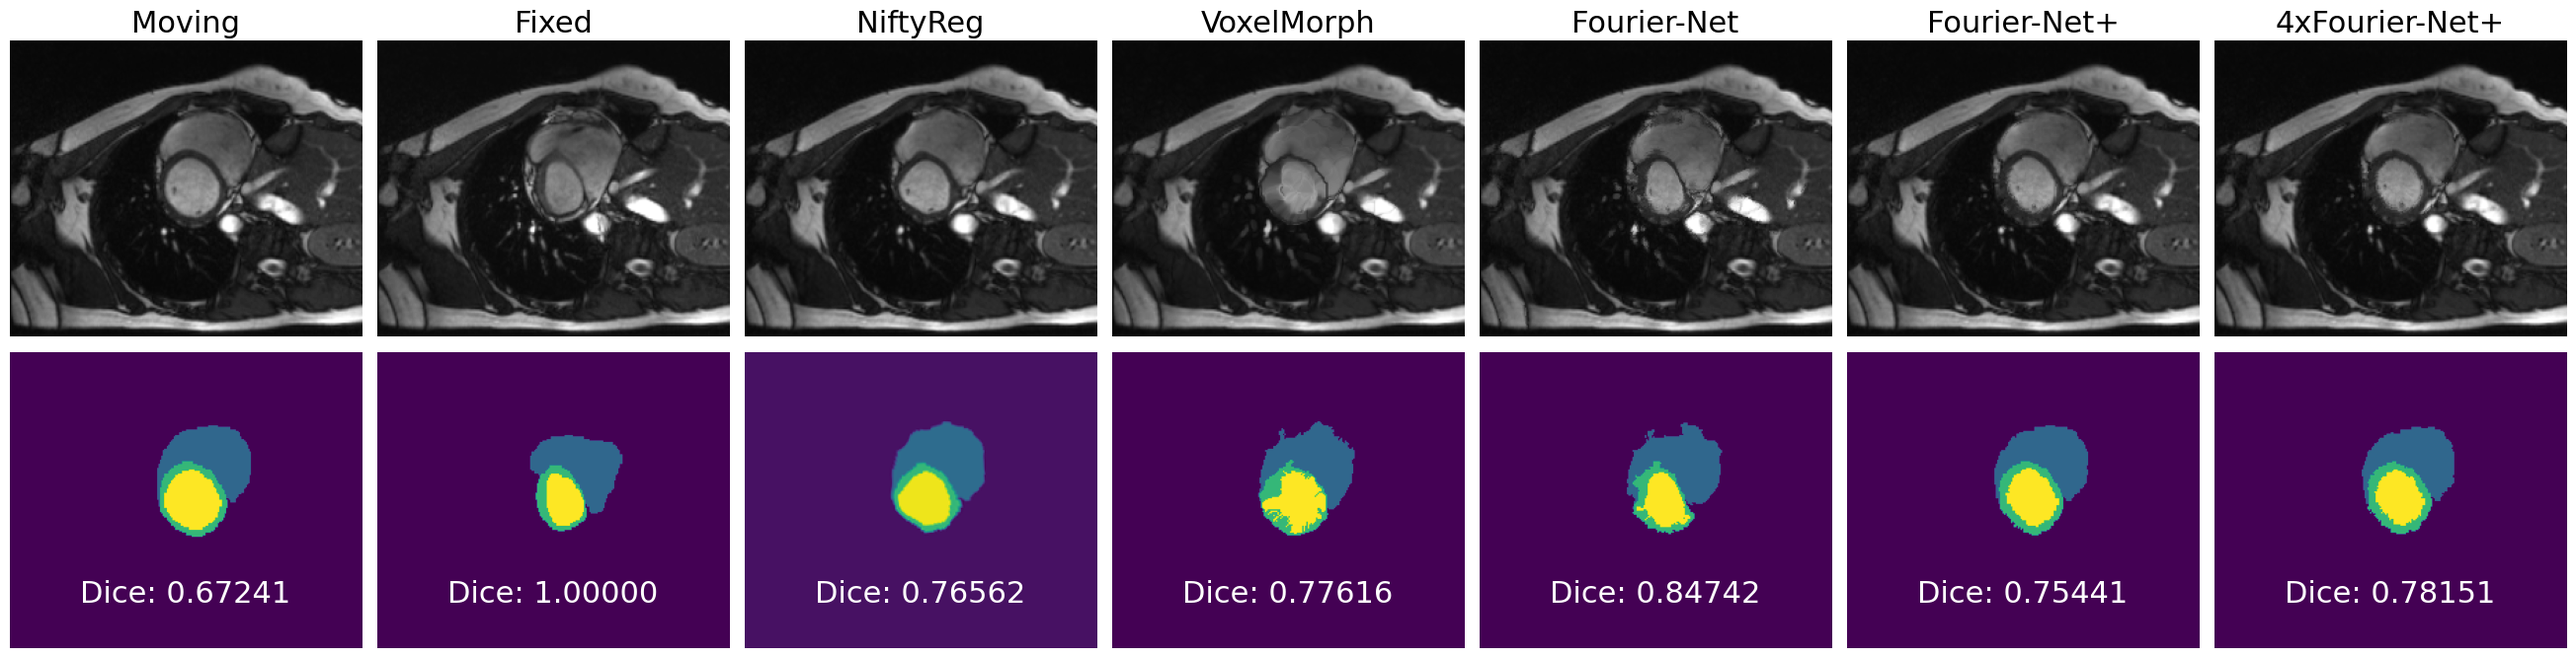
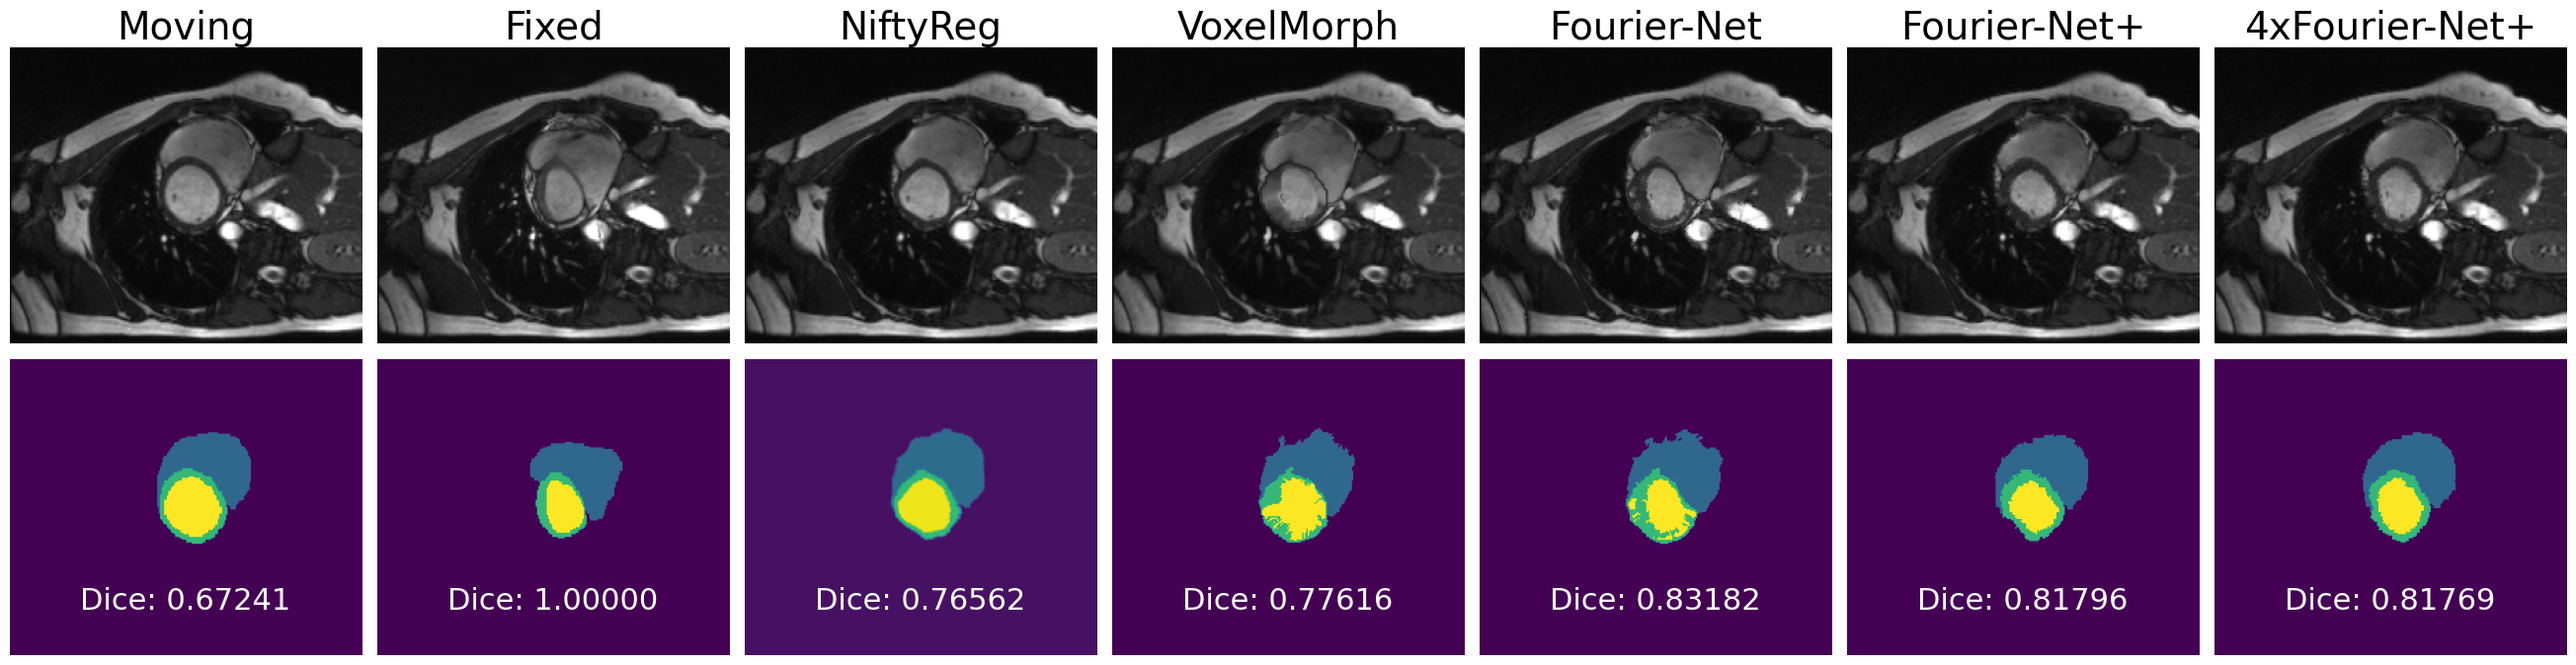
Removed domain sim arguments and changed font size of titles for the test examples.

diff --git a/2D_CMR_Registration/CalculateAllDiceScores.py b/2D_CMR_Registration/CalculateAllDiceScores.py
@@ -23,9 +23,6 @@ parser.add_argument("--FT_size_y", type=int,
 parser.add_argument("--diffeo", type=int,
                     dest="diffeo", default=0, 
                     help="choose whether to use a diffeomorphic transform (1) or not (0)")
-parser.add_argument("--domain_sim", type=int,
-                    dest="domain_sim", default=0,
-                    help="choose which domain the similarity loss should be applied: image space (0) or k-space (1)")
 parser.add_argument("--mode", type=int, dest="mode", default=0,
                     help="choose dataset mode: fully sampled (0), 4x accelerated (1), 8x accelerated (2) or 10x accelerated (3)")
 opt = parser.parse_args()
@@ -34,7 +31,6 @@ start_channel = opt.start_channel
 FT_size = [opt.FT_size_x,opt.FT_size_y]
 mode = opt.mode
 diffeo = opt.diffeo
-domain_sim = opt.domain_sim
 
 dataset = 'ACDC'
 # load ACDC test data
@@ -62,36 +58,36 @@ modelpath_voxelmorph = path_voxelmorph + natsorted(listdir(path_voxelmorph))[-1]
 model_voxelmorph.load_state_dict(torch.load(modelpath_voxelmorph))
 model_voxelmorph.eval()
 
-path_f_net      = './ModelParameters-{}/Model_{}_Diffeo_{}_Loss_{}_Chan_{}_FT_{}-{}_Smth_{}_LR_{}_Mode_{}_Sim_{}_Pth/'.format(dataset,0,0,1,start_channel,FT_size[0],FT_size[1],0.01,0.0001,mode,domain_sim)
+path_f_net      = './ModelParameters-{}/Model_{}_Diffeo_{}_Loss_{}_Chan_{}_FT_{}-{}_Smth_{}_LR_{}_Mode_{}_Pth/'.format(dataset,0,0,1,start_channel,FT_size[0],FT_size[1],0.01,0.0001,mode)
 #modelpath_f_net = path_f_net + natsorted(listdir(path_f_net))[-1]
 modelpath_f_net = [f.path for f in scandir(path_f_net) if f.is_file() and not (f.name.find('Epoch_0006') == -1)][0]
 model_f_net.load_state_dict(torch.load(modelpath_f_net))
 model_f_net.eval()
 
-path_f_net_plus      = './ModelParameters-{}/Model_{}_Diffeo_{}_Loss_{}_Chan_{}_FT_{}-{}_Smth_{}_LR_{}_Mode_{}_Sim_{}_Pth/'.format(dataset,1,0,1,start_channel,FT_size[0],FT_size[1],0.01,0.0001,mode,domain_sim)
+path_f_net_plus      = './ModelParameters-{}/Model_{}_Diffeo_{}_Loss_{}_Chan_{}_FT_{}-{}_Smth_{}_LR_{}_Mode_{}_Pth/'.format(dataset,1,0,1,start_channel,FT_size[0],FT_size[1],0.01,0.0001,mode)
 #modelpath_f_net_plus = path_f_net_plus + natsorted(listdir(path_f_net_plus))[-1]
 modelpath_f_net_plus = [f.path for f in scandir(path_f_net_plus) if f.is_file() and not (f.name.find('Epoch_0006') == -1)][0]
 model_f_net_plus.load_state_dict(torch.load(modelpath_f_net_plus))
 model_f_net_plus.eval()
 
-path_f_net_plus_cascade      = './ModelParameters-{}/Model_{}_Diffeo_{}_Loss_{}_Chan_{}_FT_{}-{}_Smth_{}_LR_{}_Mode_{}_Sim_{}_Pth/'.format(dataset,2,0,1,start_channel,FT_size[0],FT_size[1],0.01,0.0001,mode,domain_sim)
+path_f_net_plus_cascade      = './ModelParameters-{}/Model_{}_Diffeo_{}_Loss_{}_Chan_{}_FT_{}-{}_Smth_{}_LR_{}_Mode_{}_Pth/'.format(dataset,2,0,1,start_channel,FT_size[0],FT_size[1],0.01,0.0001,mode)
 #modelpath_f_net_plus_cascade = path_f_net_plus_cascade + natsorted(listdir(path_f_net_plus_cascade))[-1]
 modelpath_f_net_plus_cascade = [f.path for f in scandir(path_f_net_plus_cascade) if f.is_file() and not (f.name.find('Epoch_0004') == -1)][0]
 model_f_net_plus_cascade.load_state_dict(torch.load(modelpath_f_net_plus_cascade))
 model_f_net_plus_cascade.eval()
 
 if diffeo == 1:
-    path_f_net_diff      = './ModelParameters-{}/Model_{}_Diffeo_{}_Loss_{}_Chan_{}_FT_{}-{}_Smth_{}_LR_{}_Mode_{}_Sim_{}_Pth/'.format(dataset,0,1,1,start_channel,FT_size[0],FT_size[1],0.01,0.0001,mode,domain_sim)
+    path_f_net_diff      = './ModelParameters-{}/Model_{}_Diffeo_{}_Loss_{}_Chan_{}_FT_{}-{}_Smth_{}_LR_{}_Mode_{}_Pth/'.format(dataset,0,1,1,start_channel,FT_size[0],FT_size[1],0.01,0.0001,mode)
     modelpath_f_net_diff = path_f_net_diff + natsorted(listdir(path_f_net_diff))[-1]
     model_f_net_diff.load_state_dict(torch.load(modelpath_f_net_diff))
     model_f_net_diff.eval()
 
-    path_f_net_plus_diff      = './ModelParameters-{}/Model_{}_Diffeo_{}_Loss_{}_Chan_{}_FT_{}-{}_Smth_{}_LR_{}_Mode_{}_Sim_{}_Pth/'.format(dataset,1,1,1,start_channel,FT_size[0],FT_size[1],0.01,0.0001,mode,domain_sim)
+    path_f_net_plus_diff      = './ModelParameters-{}/Model_{}_Diffeo_{}_Loss_{}_Chan_{}_FT_{}-{}_Smth_{}_LR_{}_Mode_{}_Pth/'.format(dataset,1,1,1,start_channel,FT_size[0],FT_size[1],0.01,0.0001,mode)
     modelpath_f_net_plus_diff = path_f_net_plus_diff + natsorted(listdir(path_f_net_plus_diff))[-1]
     model_f_net_plus_diff.load_state_dict(torch.load(modelpath_f_net_plus_diff))
     model_f_net_plus_diff.eval()
 
-    path_f_net_plus_cascade_diff      = './ModelParameters-{}/Model_{}_Diffeo_{}_Loss_{}_Chan_{}_FT_{}-{}_Smth_{}_LR_{}_Mode_{}_Sim_{}_Pth/'.format(dataset,2,1,1,start_channel,FT_size[0],FT_size[1],0.01,0.0001,mode,domain_sim)
+    path_f_net_plus_cascade_diff      = './ModelParameters-{}/Model_{}_Diffeo_{}_Loss_{}_Chan_{}_FT_{}-{}_Smth_{}_LR_{}_Mode_{}_Pth/'.format(dataset,2,1,1,start_channel,FT_size[0],FT_size[1],0.01,0.0001,mode)
     modelpath_f_net_plus_cascade_diff = path_f_net_plus_cascade_diff + natsorted(listdir(path_f_net_plus_cascade_diff))[-1]
     model_f_net_plus_cascade_diff.load_state_dict(torch.load(modelpath_f_net_plus_cascade_diff))
     model_f_net_plus_cascade_diff.eval()

diff --git a/2D_CMR_Registration/VisualizeTestExamples.py b/2D_CMR_Registration/VisualizeTestExamples.py
@@ -25,15 +25,11 @@ parser.add_argument("--FT_size_y", type=int,
                     help="choose size y of FT crop: Should be smaller than 84.")
 parser.add_argument("--mode", type=int, dest="mode", default='0',
                     help="choose dataset mode: fully sampled (0), 4x accelerated (1), 8x accelerated (2) or 10x accelerated (3)")
-parser.add_argument("--domain_sim", type=int,
-                    dest="domain_sim", default=0,
-                    help="choose which domain the similarity loss should be applied: image space (0) or k-space (1)")
 opt = parser.parse_args()
 
 start_channel = opt.start_channel
 FT_size = [opt.FT_size_x,opt.FT_size_y]
 mode = opt.mode
-domain_sim = opt.domain_sim
 
 dataset = 'ACDC'
 input_shape = [216,256]
@@ -118,17 +114,17 @@ modelpath_voxelmorph = path_voxelmorph + natsorted(listdir(path_voxelmorph))[-1]
 model_voxelmorph.load_state_dict(torch.load(modelpath_voxelmorph))
 model_voxelmorph.eval()
 
-path_f_net      = './ModelParameters-{}/Model_{}_Diffeo_{}_Loss_{}_Chan_{}_FT_{}-{}_Smth_{}_LR_{}_Mode_{}_Sim_{}_Pth/'.format(dataset,0,diffeo,1,start_channel,FT_size[0],FT_size[1],0.01,0.0001,0,domain_sim)
+path_f_net      = './ModelParameters-{}/Model_{}_Diffeo_{}_Loss_{}_Chan_{}_FT_{}-{}_Smth_{}_LR_{}_Mode_{}_Pth/'.format(dataset,0,diffeo,1,start_channel,FT_size[0],FT_size[1],0.01,0.0001,0)
 modelpath_f_net = path_f_net + natsorted(listdir(path_f_net))[-1]
 model_f_net.load_state_dict(torch.load(modelpath_f_net))
 model_f_net.eval()
 
-path_f_net_plus      = './ModelParameters-{}/Model_{}_Diffeo_{}_Loss_{}_Chan_{}_FT_{}-{}_Smth_{}_LR_{}_Mode_{}_Sim_{}_Pth/'.format(dataset,1,diffeo,1,start_channel,FT_size[0],FT_size[1],0.01,0.0001,0,domain_sim)
+path_f_net_plus      = './ModelParameters-{}/Model_{}_Diffeo_{}_Loss_{}_Chan_{}_FT_{}-{}_Smth_{}_LR_{}_Mode_{}_Pth/'.format(dataset,1,diffeo,1,start_channel,FT_size[0],FT_size[1],0.01,0.0001,0)
 modelpath_f_net_plus = path_f_net_plus + natsorted(listdir(path_f_net_plus))[-1]
 model_f_net_plus.load_state_dict(torch.load(modelpath_f_net_plus))
 model_f_net_plus.eval()
 
-path_f_net_plus_cascade      = './ModelParameters-{}/Model_{}_Diffeo_{}_Loss_{}_Chan_{}_FT_{}-{}_Smth_{}_LR_{}_Mode_{}_Sim_{}_Pth/'.format(dataset,2,diffeo,1,start_channel,FT_size[0],FT_size[1],0.01,0.0001,0,domain_sim)
+path_f_net_plus_cascade      = './ModelParameters-{}/Model_{}_Diffeo_{}_Loss_{}_Chan_{}_FT_{}-{}_Smth_{}_LR_{}_Mode_{}_Pth/'.format(dataset,2,diffeo,1,start_channel,FT_size[0],FT_size[1],0.01,0.0001,0)
 modelpath_f_net_plus_cascade = path_f_net_plus_cascade + natsorted(listdir(path_f_net_plus_cascade))[-1]
 model_f_net_plus_cascade.load_state_dict(torch.load(modelpath_f_net_plus_cascade))
 model_f_net_plus_cascade.eval()
@@ -196,7 +192,7 @@ fig, axs = plt.subplots(nrows=2, ncols=len(titles), figsize=(48, 8))  #, gridspe
 for i in range(len(titles)):
     ax = axs[0][i]
     ax.axis('off')
-    ax.set_title(titles[i], fontsize=22) # title only for the images
+    ax.set_title(titles[i], fontsize=28) # title only for the images
     im_ax = ax.imshow(images[i].data.cpu().numpy()[0, 0, ...], cmap='gray', vmin=0, vmax = 1)
     ax = axs[1][i]
     ax.axis('off')

diff --git a/2D_CMR_Registration/TestResults_VoxelMorph.py b/2D_CMR_Registration/TestResults_VoxelMorph.py
@@ -37,6 +37,8 @@ choose_loss = opt.choose_loss
 mode = opt.mode
 gpu = opt.gpu
 
+device = torch.device("cuda" if gpu==1 else "cpu")
+
 if dataset == 'ACDC':
     # load ACDC test data
     test_set = TestDatasetACDC('/home/jmeyer/storage/students/janmeyer_711878/data/ACDC', mode) 
@@ -55,8 +57,8 @@ else:
 input_shape = test_set.__getitem__(0)[0].shape[1:3]
 
 # use dense voxelmorph
-model = VxmDense(inshape=input_shape, nb_unet_features=32, bidir=False, nb_unet_levels=4).cuda()  #, int_steps=7, int_downsize=2
-transform = SpatialTransformer(input_shape, mode = 'nearest').cuda()
+model = VxmDense(inshape=input_shape, nb_unet_features=32, bidir=False, nb_unet_levels=4).to(device)  #, int_steps=7, int_downsize=2
+transform = SpatialTransformer(input_shape, mode = 'nearest').to(device)
 
 path = './ModelParameters-{}/Voxelmorph_Loss_{}_Smth_{}_LR_{}_Mode_{}/'.format(dataset,choose_loss,smooth,learning_rate,mode)
 
@@ -79,7 +81,6 @@ model.eval()
 MSE_test = []
 SSIM_test = []
 NegJ = []
-device = torch.device("cuda" if gpu==1 else "cpu")
 times = []
 if dataset != 'CMRxRecon':
     Dice_test_full = []
@@ -99,28 +100,28 @@ with f:
 
 for i, image_pairs in enumerate(test_generator): 
     with torch.no_grad():
-        mov_img_fullySampled = image_pairs[0]
-        fix_img_fullySampled = image_pairs[1]
+        mov_img_fullySampled = image_pairs[0].float().to(device)
+        fix_img_fullySampled = image_pairs[1].float().to(device)
         if dataset == 'CMRxRecon':
-            mov_img_subSampled = image_pairs[2]
-            fix_img_subSampled = image_pairs[3]
+            mov_img_subSampled = image_pairs[2].float().to(device)
+            fix_img_subSampled = image_pairs[3].float().to(device)
         else:
-            mov_seg = image_pairs[2]
-            fix_seg = image_pairs[3]
+            mov_seg = image_pairs[2].float().to(device)
+            fix_seg = image_pairs[3].float().to(device)
 
         start = time.time()
         # calculate displacement on subsampled data
         if dataset == 'CMRxRecon':
-            warped_mov_img_fullySampled, Df_xy = model(mov_img_subSampled.float().to(device), fix_img_subSampled.float().to(device))
+            warped_mov_img_fullySampled, Df_xy = model(mov_img_subSampled, fix_img_subSampled)
         else:
-            warped_mov_img_fullySampled, Df_xy = model(mov_img_fullySampled.float().to(device), fix_img_fullySampled.float().to(device))
+            warped_mov_img_fullySampled, Df_xy = model(mov_img_fullySampled, fix_img_fullySampled)
         
         # get inference time
         inference_time = time.time()-start
         times.append(inference_time)
             
         if dataset != 'CMRxRecon':
-            warped_mov_seg = transform(mov_seg.float().to(device), Df_xy) #.permute(0, 2, 3, 1)
+            warped_mov_seg = transform(mov_seg, Df_xy) #.permute(0, 2, 3, 1)
             
         # calculate MSE, SSIM and Dice 
         if dataset == 'OASIS':

diff --git a/2D_CMR_Registration/train_voxelmorph.py b/2D_CMR_Registration/train_voxelmorph.py
@@ -53,14 +53,14 @@ if dataset == 'ACDC':
     train_set = TrainDatasetACDC('/home/jmeyer/storage/students/janmeyer_711878/data/ACDC', mode) 
     training_generator = Data.DataLoader(dataset=train_set, batch_size=1, shuffle=True, num_workers=4)
     validation_set = ValidationDatasetACDC('/home/jmeyer/storage/students/janmeyer_711878/data/ACDC', mode) 
-    validation_generator = Data.DataLoader(dataset=validation_set, batch_size=1, shuffle=True, num_workers=4)
+    validation_generator = Data.DataLoader(dataset=validation_set, batch_size=1, shuffle=False, num_workers=4)
     #input_shape = [216,256]
 elif dataset == 'CMRxRecon':
     # load CMRxRecon data
     train_set = TrainDatasetCMRxRecon('/home/jmeyer/storage/students/janmeyer_711878/data/CMRxRecon', mode) 
     training_generator = Data.DataLoader(dataset=train_set, batch_size=1, shuffle=True, num_workers=4)
     validation_set = ValidationDatasetCMRxRecon('/home/jmeyer/storage/students/janmeyer_711878/data/CMRxRecon', mode) 
-    validation_generator = Data.DataLoader(dataset=validation_set, batch_size=1, shuffle=True, num_workers=4)
+    validation_generator = Data.DataLoader(dataset=validation_set, batch_size=1, shuffle=False, num_workers=4)
     #input_shape = [82,170]
 elif dataset == 'OASIS':
     # path for OASIS dataset
@@ -206,9 +206,9 @@ for epoch in range(epochs):
         
         # save and log model     
         if dataset == 'CMRxRecon':
-            modelname = 'SSIM_{:.5f}_MSE_{:.6f}_Epoch_{:04d}.pth'.format(Mean_SSIM, Mean_MSE, epoch)
+            modelname = 'SSIM_{:.5f}_MSE_{:.6f}_Epoch_{:04d}.pth'.format(Mean_SSIM, Mean_MSE, epoch+1)
         else:
-            modelname = 'DICE_{:.5f}_SSIM_{:.5f}_MSE_{:.6f}_Epoch_{:04d}.pth'.format(Mean_Dice, Mean_SSIM, Mean_MSE, epoch)
+            modelname = 'DICE_{:.5f}_SSIM_{:.5f}_MSE_{:.6f}_Epoch_{:04d}.pth'.format(Mean_Dice, Mean_SSIM, Mean_MSE, epoch+1)
         save_checkpoint(model.state_dict(), model_dir, modelname)
         
         # save image

diff --git a/2D_CMR_Registration/TestResults_Fourier-Net.py b/2D_CMR_Registration/TestResults_Fourier-Net.py
@@ -39,7 +39,7 @@ parser.add_argument("--FT_size_y", type=int,
                     dest="FT_size_y", default=24,
                     help="choose size y of FT crop: Should be smaller than 84.")
 parser.add_argument("--gpu", type=int,
-                    dest="gpu", default=0, 
+                    dest="gpu", default=1, 
                     help="choose whether to use the gpu (1) or not (0)")
 opt = parser.parse_args()
 
@@ -110,8 +110,6 @@ transform.eval()
 MSE_test = []
 SSIM_test = []
 NegJ = []
-use_cuda = True
-device = torch.device("cuda" if use_cuda else "cpu")
 times = []
 if dataset != 'CMRxRecon':
     Dice_test_full = []

diff --git a/2D_CMR_Registration/Models.py b/2D_CMR_Registration/Models.py
@@ -1,5 +1,7 @@
 import warnings
 warnings.filterwarnings("ignore")
+import os
+os.environ['TF_CPP_MIN_LOG_LEVEL'] = '3' # to shut tensorflow the fuck up
 import torch 
 import torch.nn as nn
 import torch.nn.functional as F
